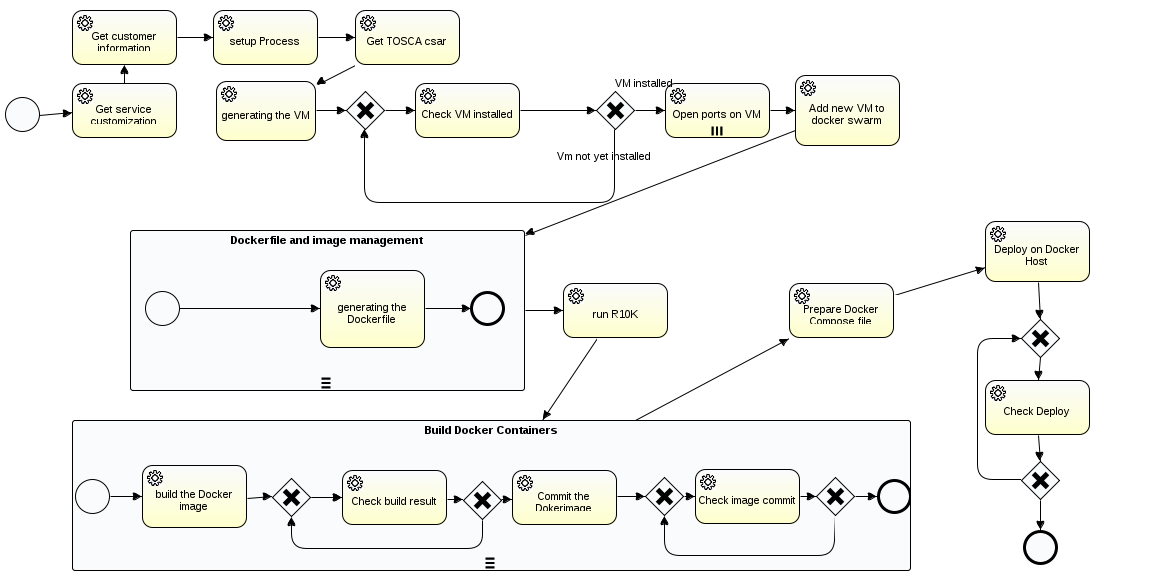
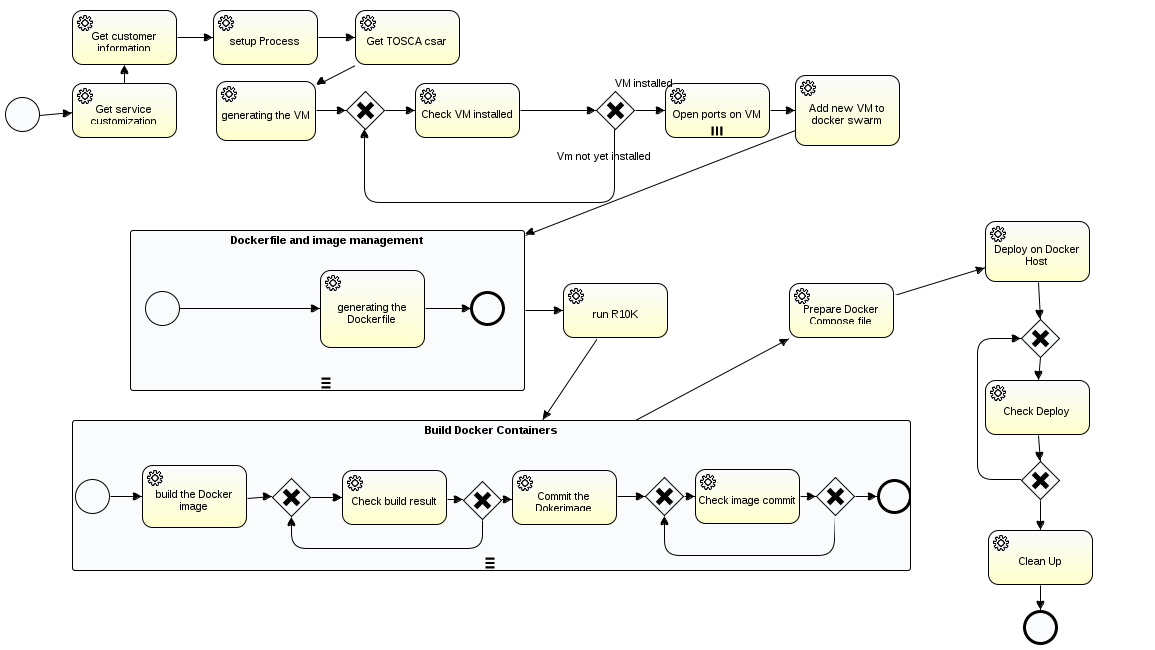
Added cleanup

diff --git a/bpmn-component/src/main/java/eu/cloudopting/bpmn/tasks/deploy/DeployCheckDeploy.java b/bpmn-component/src/main/java/eu/cloudopting/bpmn/tasks/deploy/DeployCheckDeploy.java
@@ -1,0 +1,31 @@
+package eu.cloudopting.bpmn.tasks.deploy;
+
+import org.activiti.engine.delegate.DelegateExecution;
+import org.activiti.engine.delegate.JavaDelegate;
+import org.slf4j.Logger;
+import org.slf4j.LoggerFactory;
+import org.springframework.beans.factory.annotation.Autowired;
+import org.springframework.stereotype.Service;
+
+import eu.cloudopting.docker.DockerService;
+import eu.cloudopting.tosca.ToscaService;
+
+@Service
+public class DeployCheckDeploy implements JavaDelegate {
+	private final Logger log = LoggerFactory.getLogger(DeployCheckDeploy.class);
+	@Autowired
+	DockerService dockerService;
+
+	@Override
+	public void execute(DelegateExecution execution) throws Exception {
+		// TODO Auto-generated method stub
+		log.debug("in DeployCheckDeploy");
+		String customizationId = (String) execution.getVariable("customizationId");
+		String deployToken = (String) execution.getVariable("deployToken");
+//		toscaService.getNodeType(customizationId,"");
+		
+		boolean check = dockerService.isBuilt(deployToken);
+		execution.setVariable("chkBuild", check);
+	}
+
+}

diff --git a/bpmn-component/src/main/java/eu/cloudopting/bpmn/tasks/deploy/DeployCleanUp.java b/bpmn-component/src/main/java/eu/cloudopting/bpmn/tasks/deploy/DeployCleanUp.java
@@ -1,0 +1,32 @@
+package eu.cloudopting.bpmn.tasks.deploy;
+
+import org.activiti.engine.delegate.DelegateExecution;
+import org.activiti.engine.delegate.JavaDelegate;
+import org.slf4j.Logger;
+import org.slf4j.LoggerFactory;
+import org.springframework.beans.factory.annotation.Autowired;
+import org.springframework.stereotype.Service;
+
+import eu.cloudopting.tosca.ToscaService;
+
+@Service
+public class DeployCleanUp implements JavaDelegate {
+	private final Logger log = LoggerFactory.getLogger(DeployCleanUp.class);
+	@Autowired
+	ToscaService toscaService;
+
+	@Override
+	public void execute(DelegateExecution execution) throws Exception {
+		// TODO Auto-generated method stub
+		log.debug("in DeployCleanUp");
+		String customizationId = (String) execution.getVariable("customizationId");
+//		toscaService.getNodeType(customizationId,"");
+		// Remove the tosca customization
+		
+		// delete the folder
+		
+		// remove the caches in dockerservice
+		
+	}
+
+}
